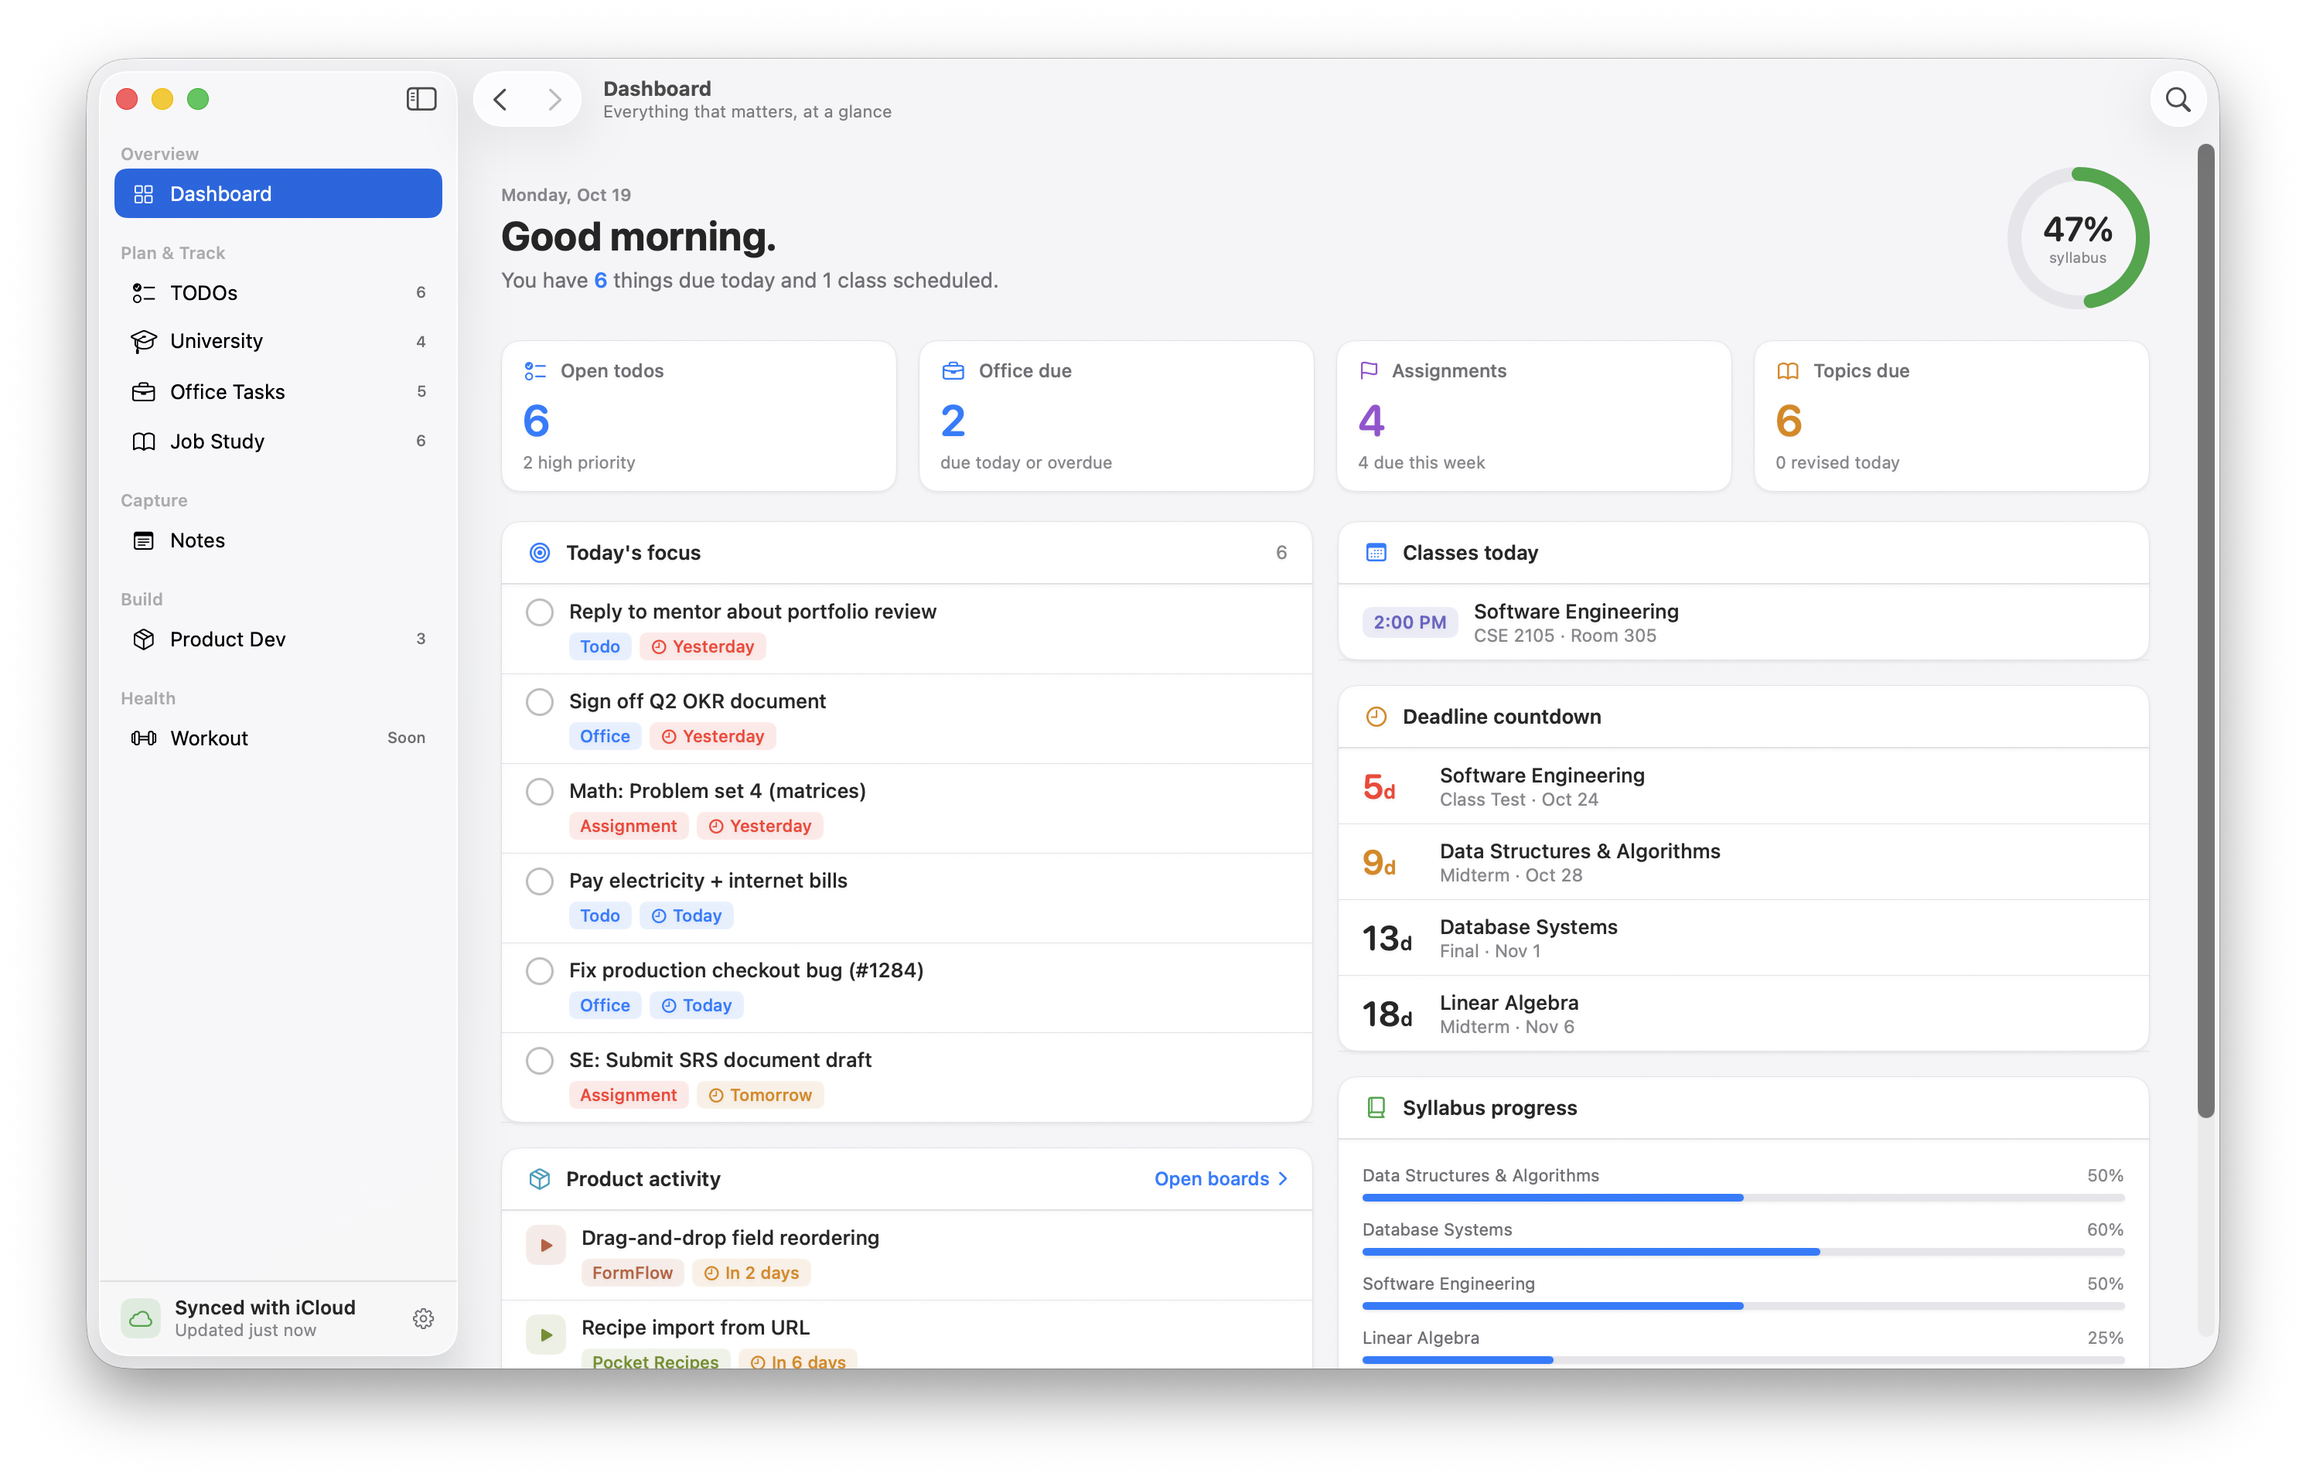
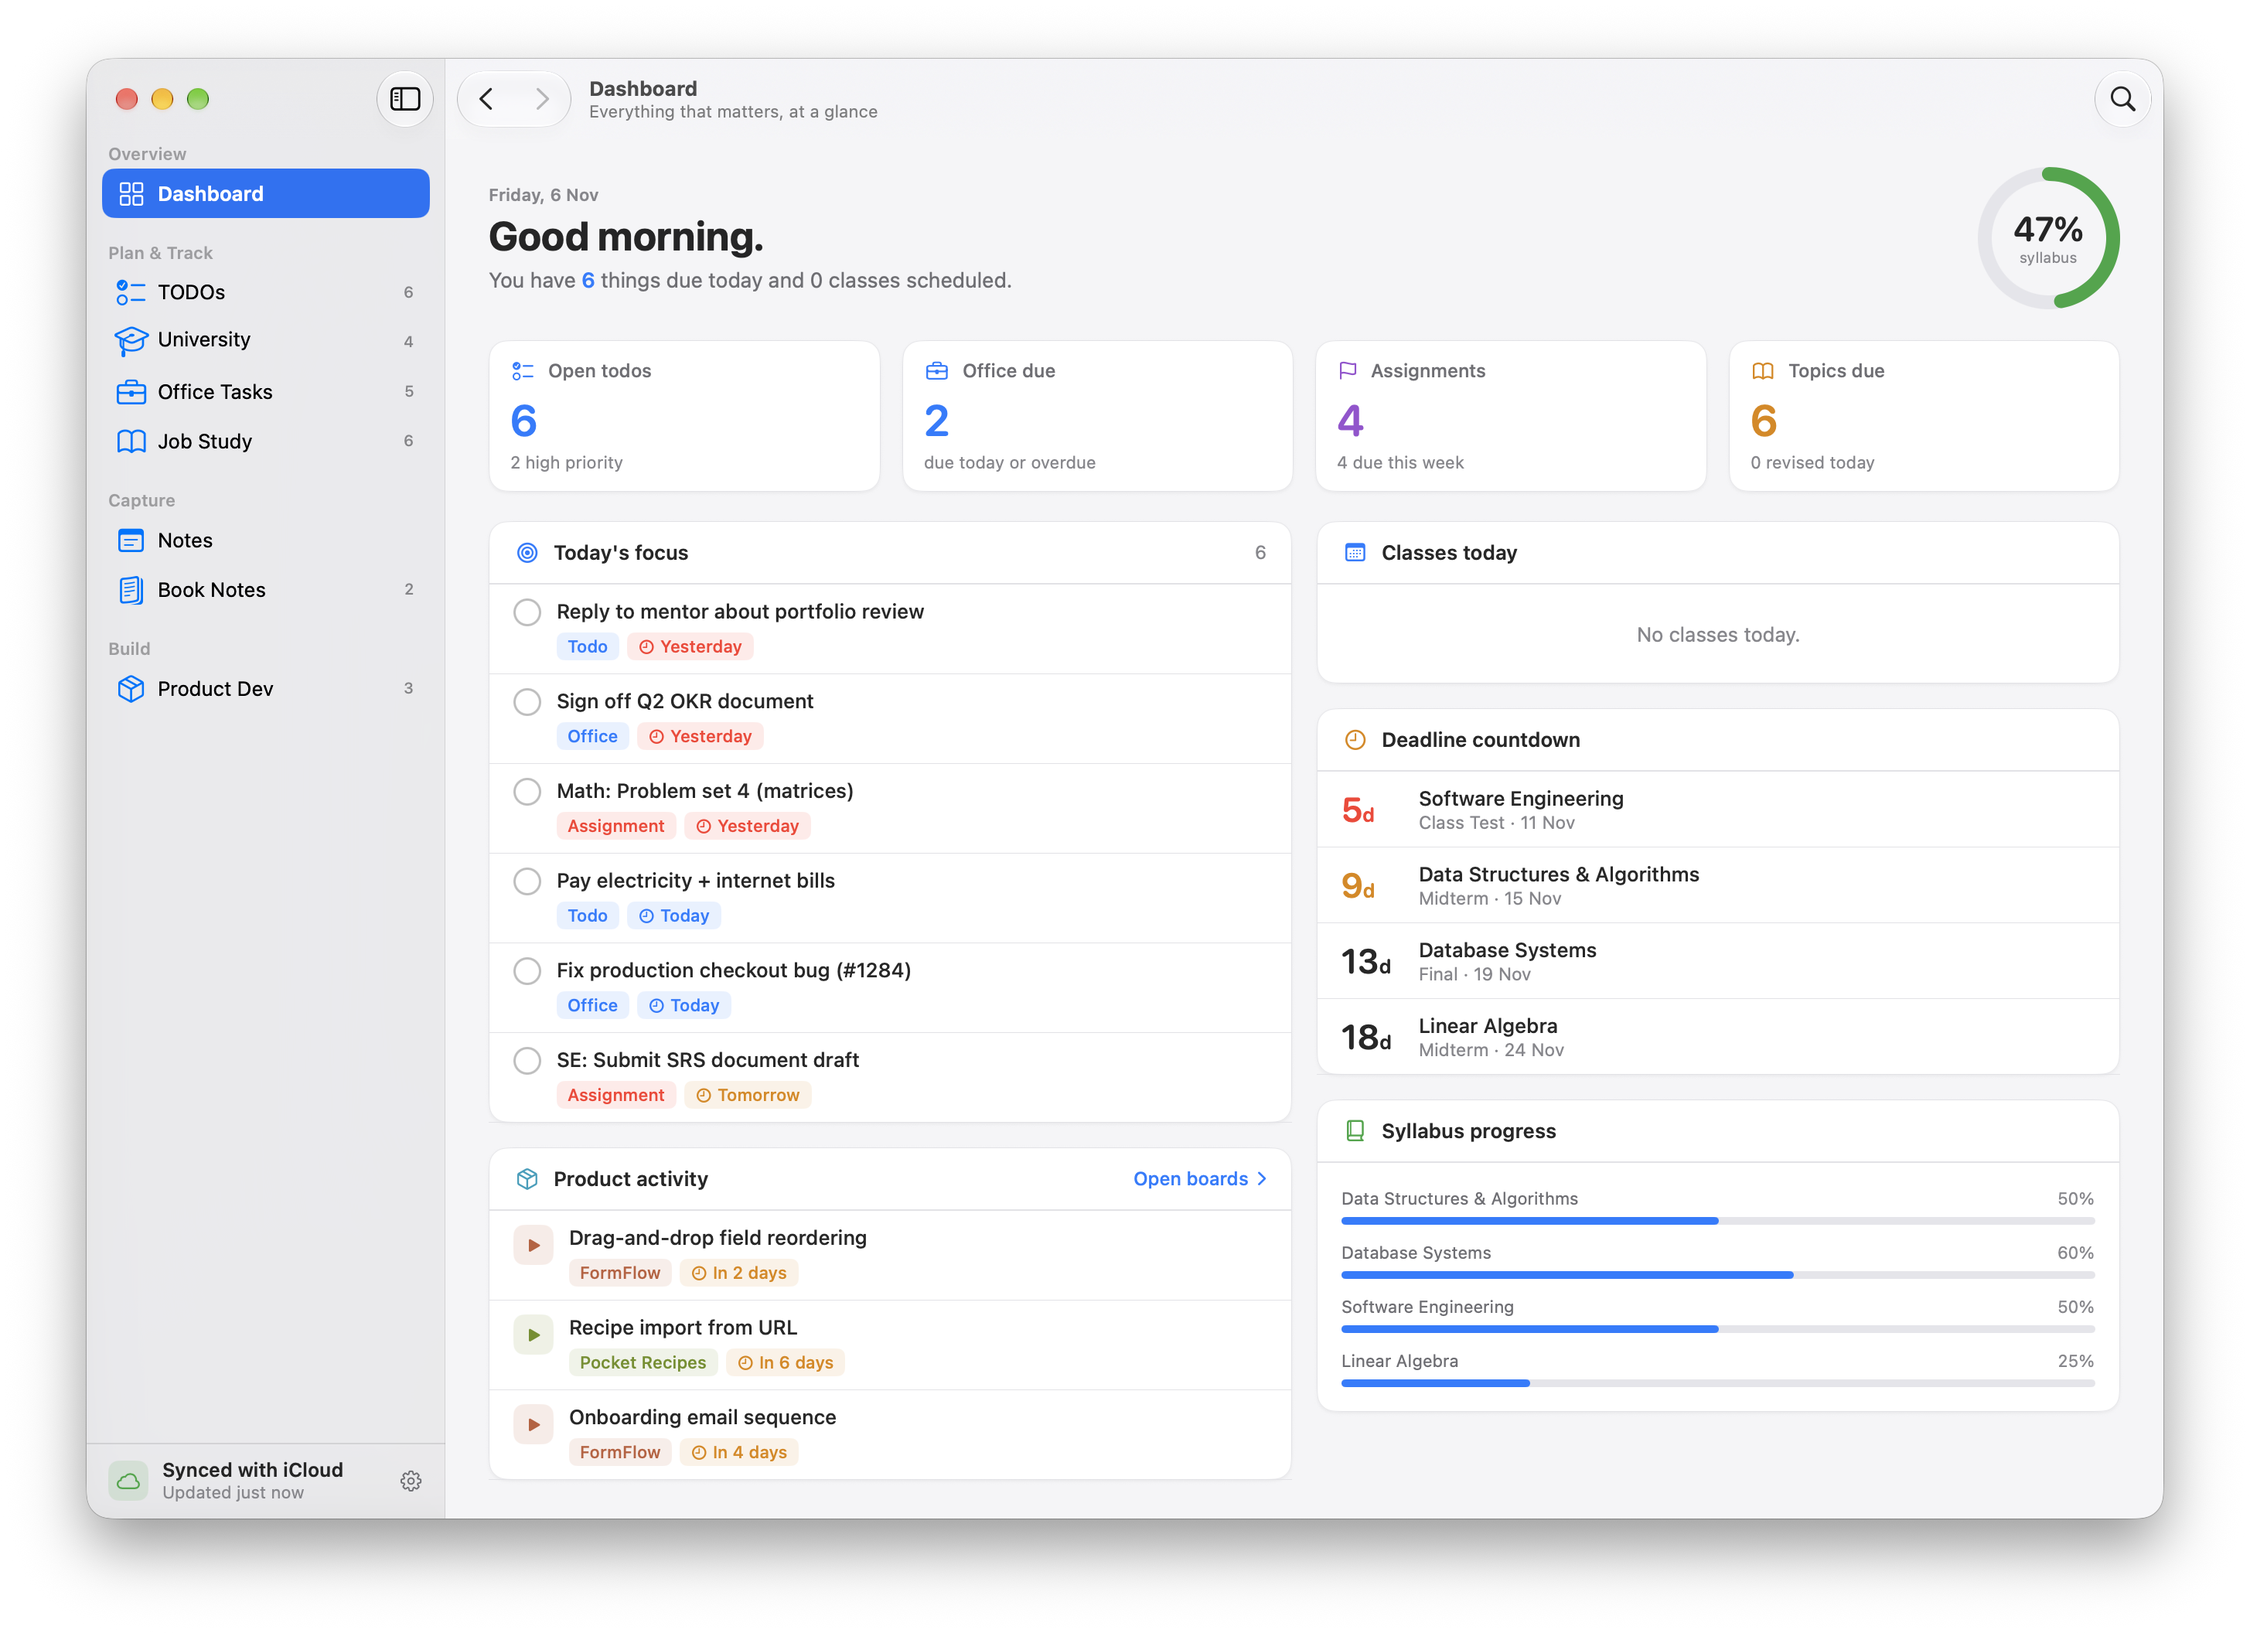
Update the screenshots to show Book Notes in the sidebar
Use the same new Dashboard capture on the landing page and in the README,
and update the landing page's image size and alt text to match it.

diff --git a/docs/index.html b/docs/index.html
@@ -28,7 +28,7 @@
 <div class="hero-meta">Free and open source · macOS 26 Tahoe or later · Apple silicon and Intel</div>
 </div>
 <div class="wrap hero-stage">
-<img class="hero-shot" src="screenshot.png" width="2000" height="1379" alt="MySelf's Dashboard on macOS: today's focus with overdue office tasks, stat cards for open todos, office tasks due, assignments and Job Study topics due, a deadline countdown and syllabus progress, with Workout marked Soon in the sidebar">
+<img class="hero-shot" src="screenshot.png" width="2910" height="2112" alt="MySelf's Dashboard on macOS: today's focus with todos, office tasks and assignments, stat cards for open todos, office tasks due, assignments and Job Study topics due, a deadline countdown, syllabus progress and product activity, with Notes and Book Notes in the sidebar">
 </div>
 </header>
 
